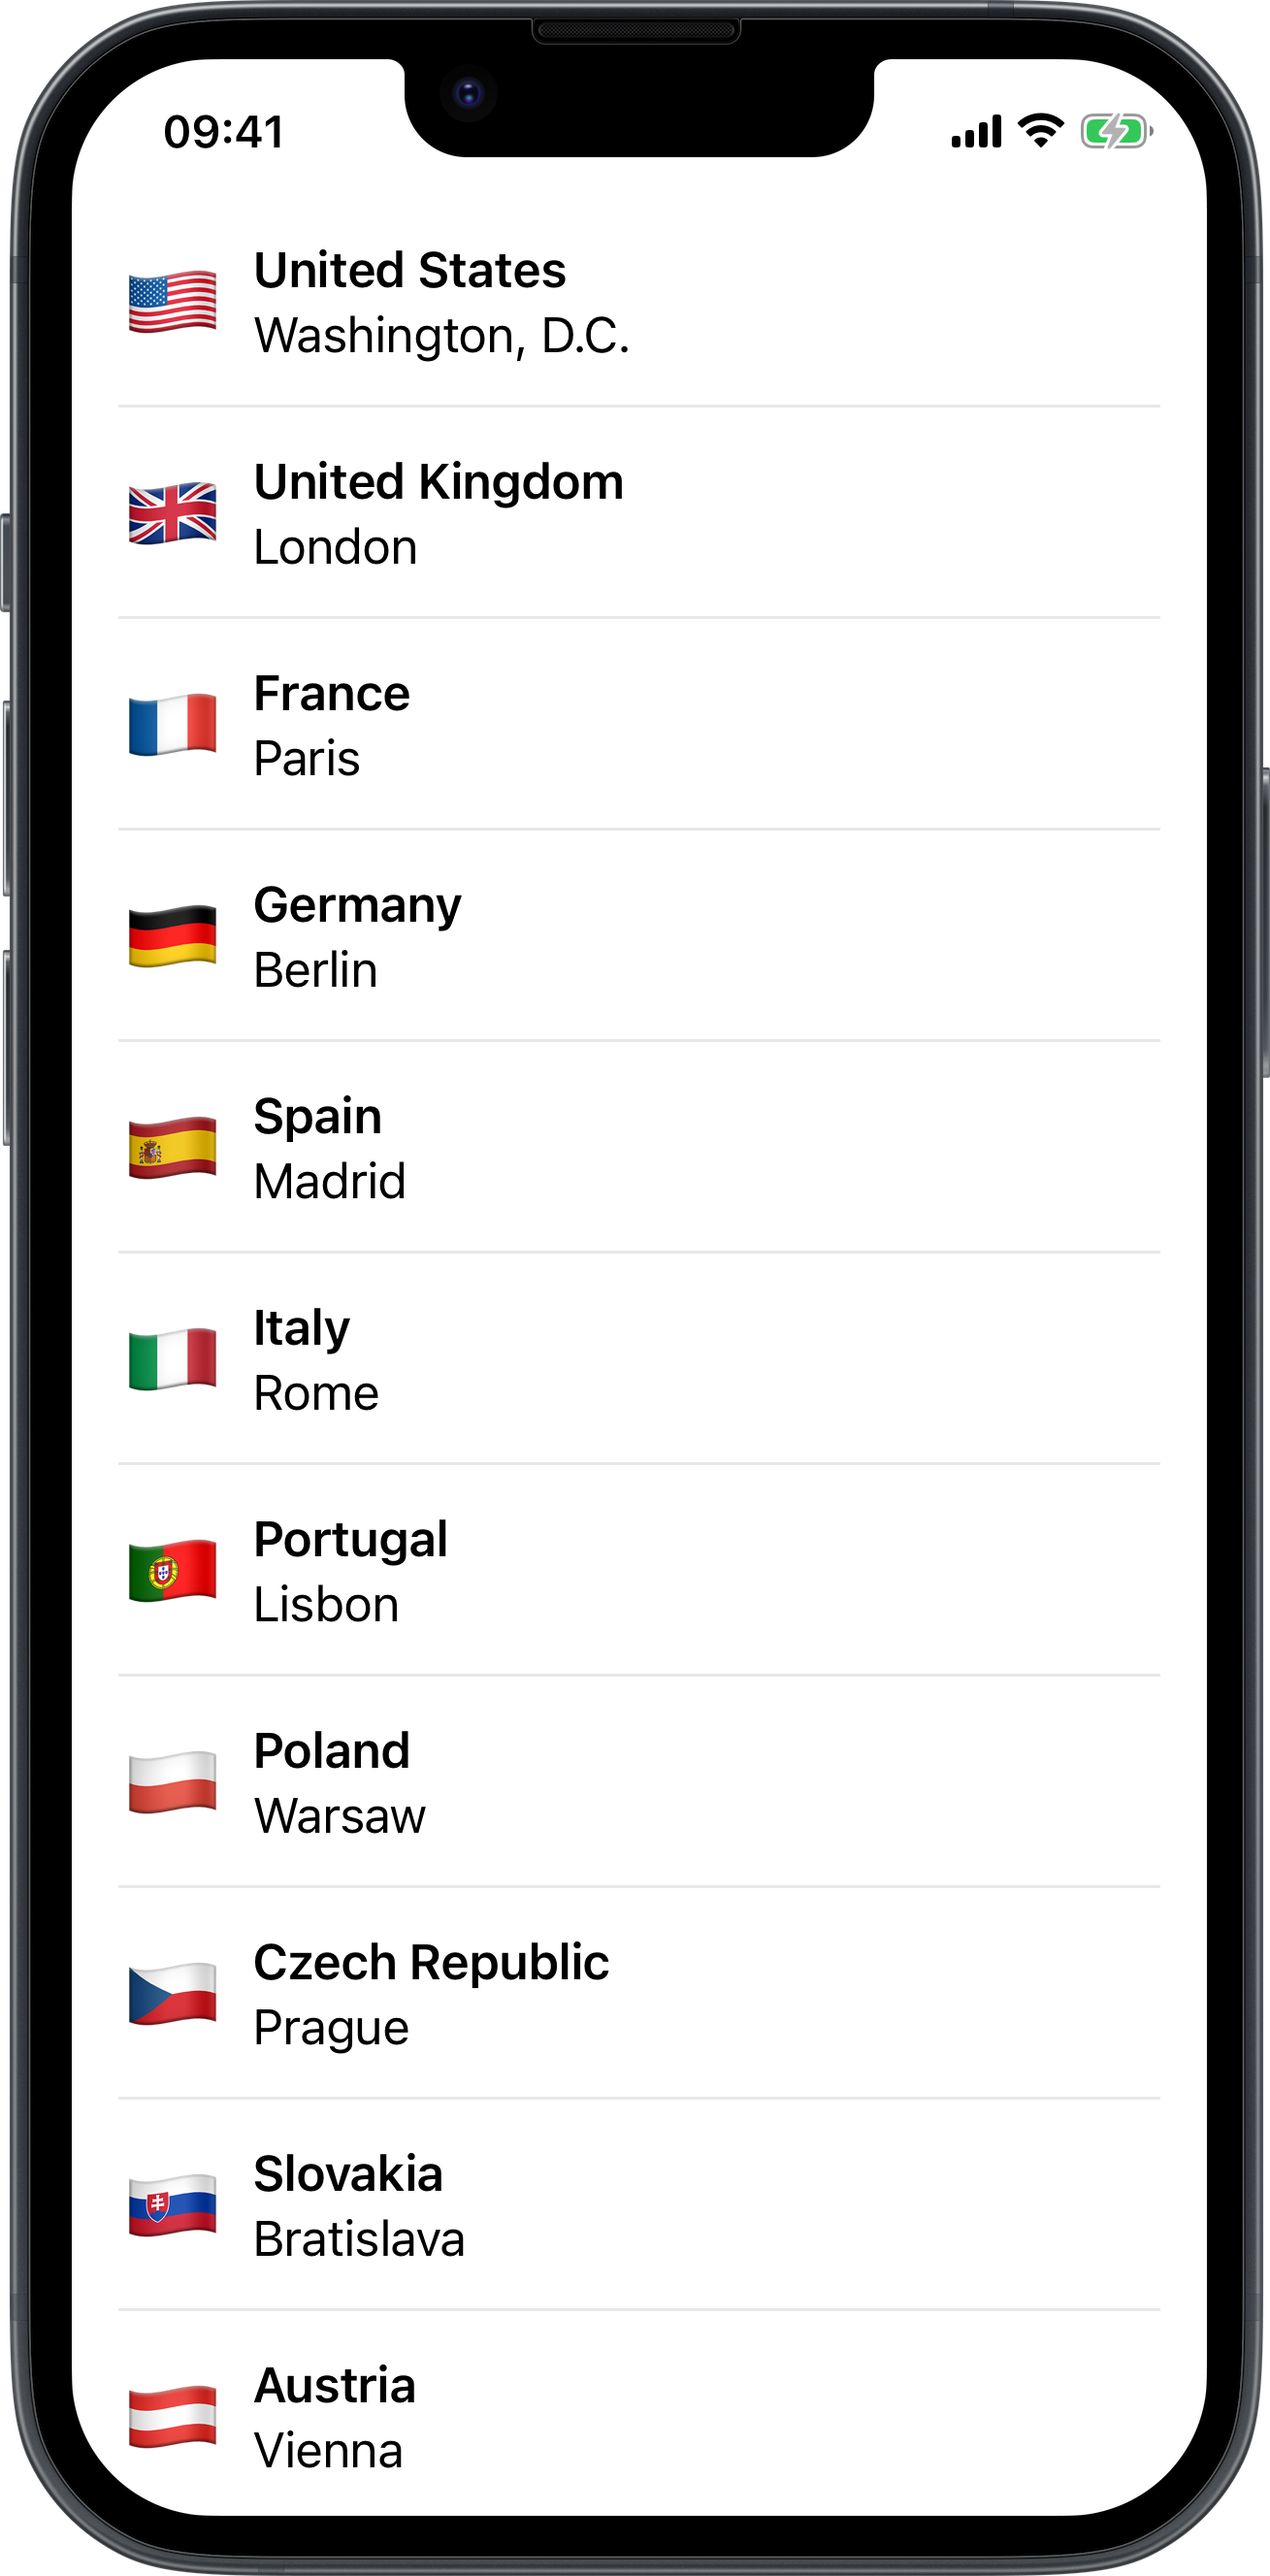
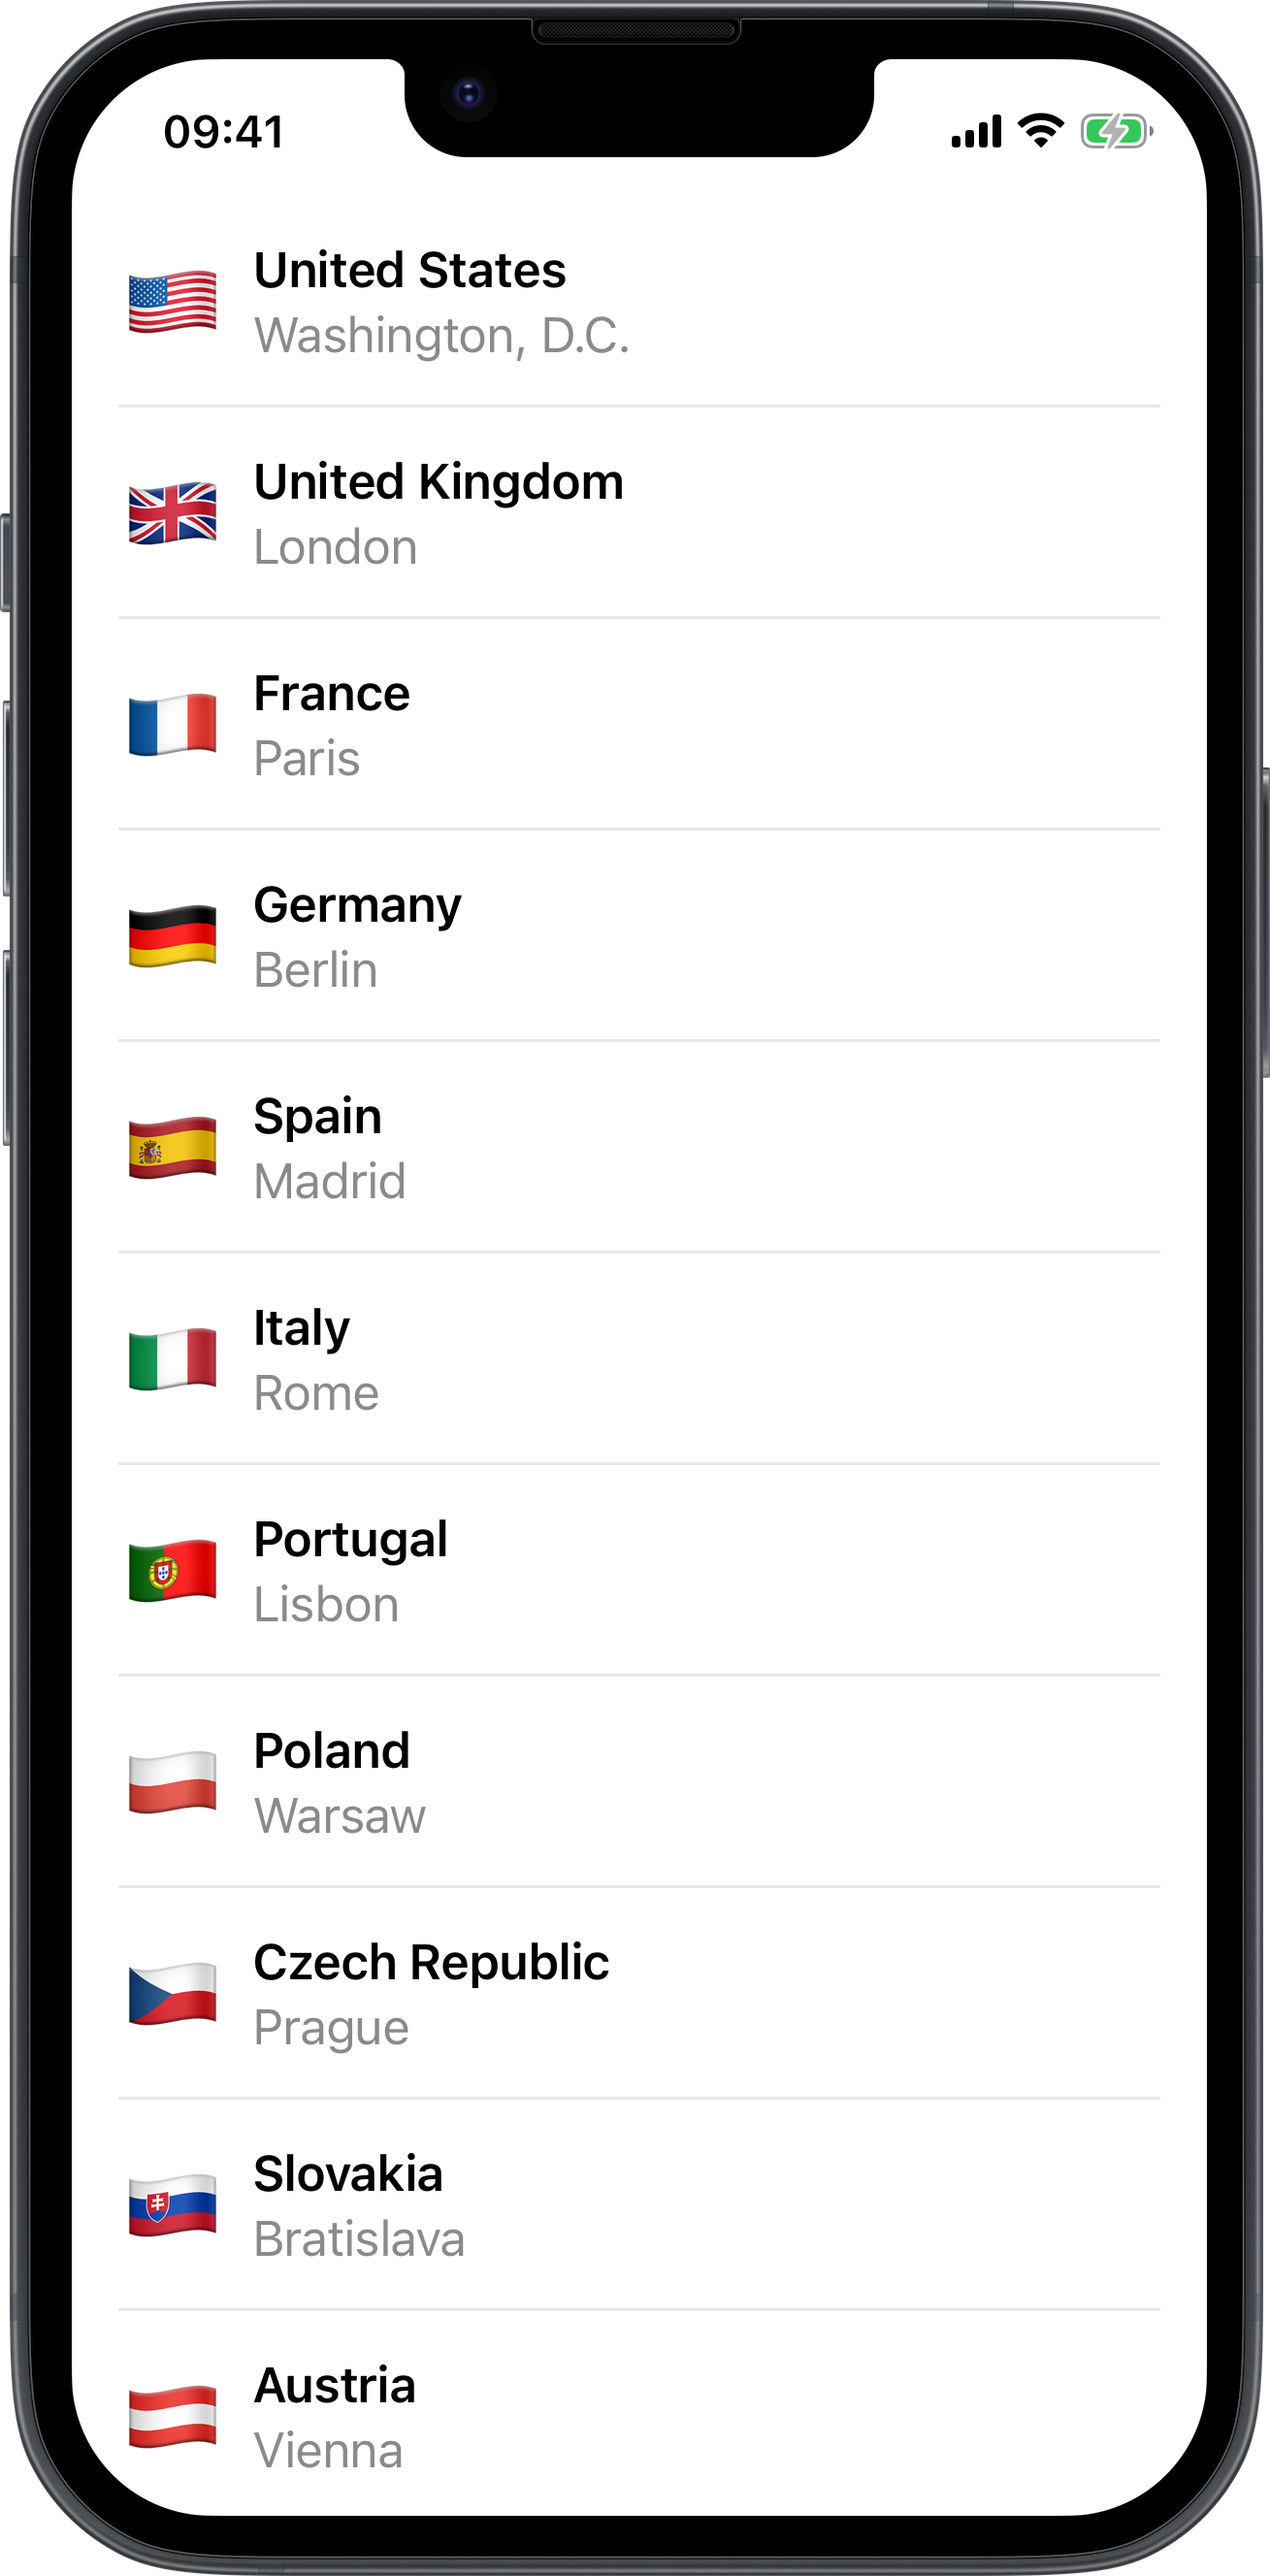
Updated list example

diff --git a/Examples/Basic/DynamicList.md b/Examples/Basic/DynamicList.md
@@ -1,6 +1,6 @@
-TEST HELLO MAGIC UI
+# Dynamic List
 
-A minimal example demonstrating rendering a single text element.
+An example demonstrating a list populated with data from a JSON datamodel.
 
 ```xml
 <body>
@@ -10,7 +10,7 @@ A minimal example demonstrating rendering a single text element.
                 <text font="largeTitle">$dataModel.flag</text>
                 <vstack alignment="leading">
                     <text font="headline">$dataModel.country</text>
-                    <text>$dataModel.capital</text>
+                    <text foregroundStyle="secondary">$dataModel.capital</text>
                 </vstack>
             </hstack>
         </foreach>
